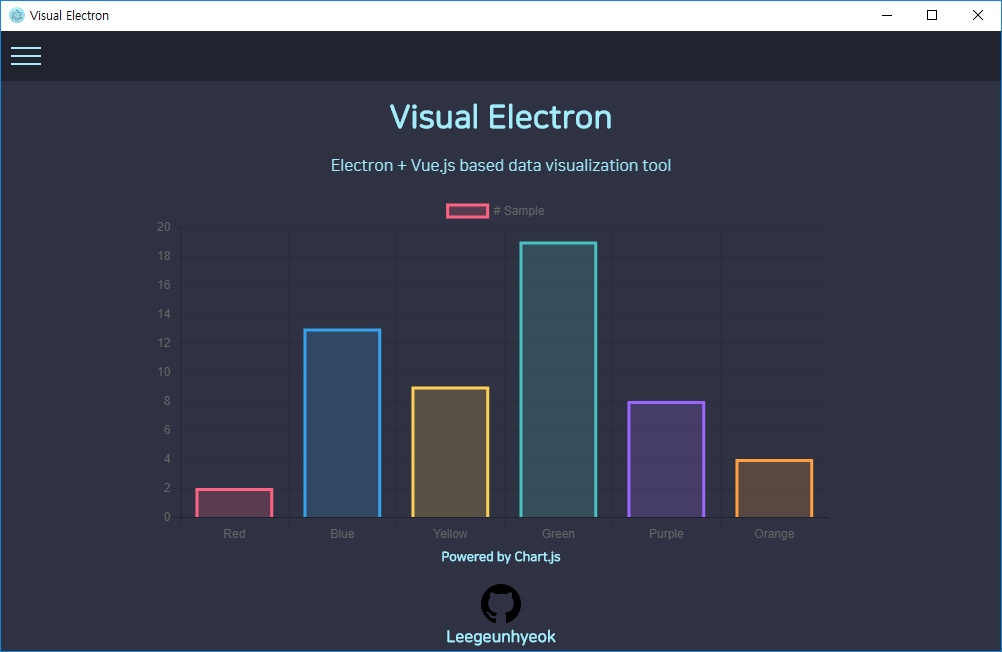
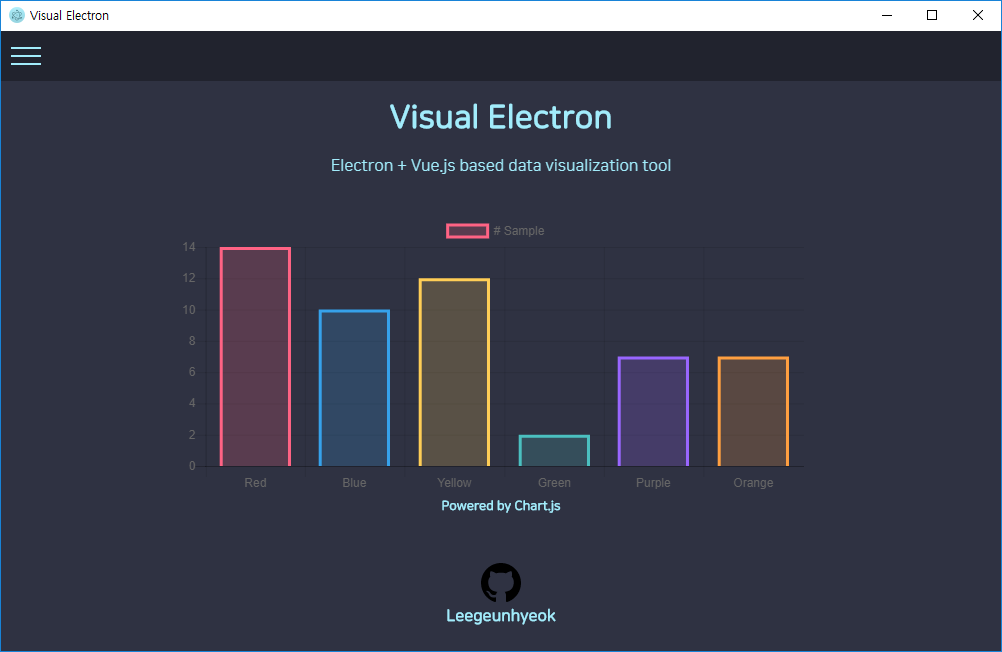
Fix chart area(vertical responsive), Add system info

Changed region(s): [[0.1856, 0.3067, 0.8353, 1.0]]

diff --git a/src/renderer/components/Information.vue b/src/renderer/components/Information.vue
@@ -15,6 +15,27 @@
         <img id="github-icon" src="../assets/github.svg">
         <h4 id="github-id">Leegeunhyeok</h4>
       </div>
+      <div id="system-info-area">
+        <div id="system-info">
+          <div id="system-title">{{ lang[$store.state.setting.lang]['info']['system'] }}</div>
+          <div class="system-info-item">
+            <div class="system-info-title">Electron</div>
+            <div>{{ electron }}</div>
+          </div>
+          <div class="system-info-item">
+            <div class="system-info-title">Node.js</div>
+            <div>{{ node }}</div>
+          </div>
+          <div class="system-info-item">
+            <div class="system-info-title">Vue.js</div>
+            <div>{{ vue }}</div>
+          </div>
+          <div class="system-info-item">
+            <div class="system-info-title">Platform</div>
+            <div>{{ platform }}</div>
+          </div>
+        </div>
+      </div>
     </div>
   </div>
 </template>
@@ -25,7 +46,11 @@ export default {
   props: ['lang'],
   data () {
     return {
-      chart: null
+      chart: null,
+      electron: process.versions['atom-shell'],
+      node: process.versions.node,
+      platform: require('os').platform(),
+      vue: require('vue/package.json').version
     }
   },
   mounted () {
@@ -57,6 +82,8 @@ export default {
         }]
       },
       options: {
+        responsive: true,
+        maintainAspectRatio: false,
         scales: {
           yAxes: [{
             ticks: {
@@ -92,7 +119,10 @@ export default {
 <style>
 
 #information {
+  display: inline-block;
+  width: 100%;
   padding-top: 50px;
+  background-color: #2f3242;
 }
 
 #info-area {
@@ -114,6 +144,8 @@ export default {
 
 #github-info {
   cursor: pointer;
+  margin: auto;
+  margin-top: 50px;
 }
 
 #github-icon {
@@ -129,7 +161,9 @@ export default {
 #sample-chart-area {
   margin: auto;
   position: relative;
-  width: 70%;
+  margin-top: 4%;
+  width: 65%;
+  height: 45vh;
 }
 
 #sample-chart-button {
@@ -144,6 +178,45 @@ export default {
 
 #sample-chart-button:hover {
   background-color: #1a1b24;
+}
+
+@media (min-width: 1200px) {
+  #sample-chart-area {
+    margin-top: 6%;
+    width: 50%;
+    height: 40vh;
+  }
+}
+
+#system-info-area {
+  margin: auto;
+  margin-top: 50px;
+  margin-bottom: 50px;
+  width: 80%;
+}
+
+#system-info {
+  margin: auto;
+  padding: 10px;
+  width: 60%;
+  background-color: rgba(162, 236, 251, 0.2);
+  border-radius: 2px;
+  border: 3px solid #a2ecfb;
+}
+
+#system-title {
+  font-weight: bold;
+  font-size: 1.2rem;
+  margin-bottom: 20px;
+}
+
+.system-info-item {
+  margin: 20px 0;
+}
+
+.system-info-title {
+  font-weight: bold;
+  margin-bottom: 5px;
 }
 
 </style>

diff --git a/src/renderer/model/LanguagePack.js b/src/renderer/model/LanguagePack.js
@@ -34,7 +34,8 @@ const $kor = {
     lastest: '최신 버전'
   },
   info: {
-    introduce: 'Electron + Vue.js 기반의 데이터 시각화 도구입니다'
+    introduce: 'Electron + Vue.js 기반의 데이터 시각화 도구입니다',
+    system: '시스템 정보'
   }
 }
 
@@ -66,7 +67,8 @@ const $eng = {
     lastest: 'Lastest version'
   },
   info: {
-    introduce: 'Electron + Vue.js based data visualization tool'
+    introduce: 'Electron + Vue.js based data visualization tool',
+    system: 'System Information'
   }
 }
 
